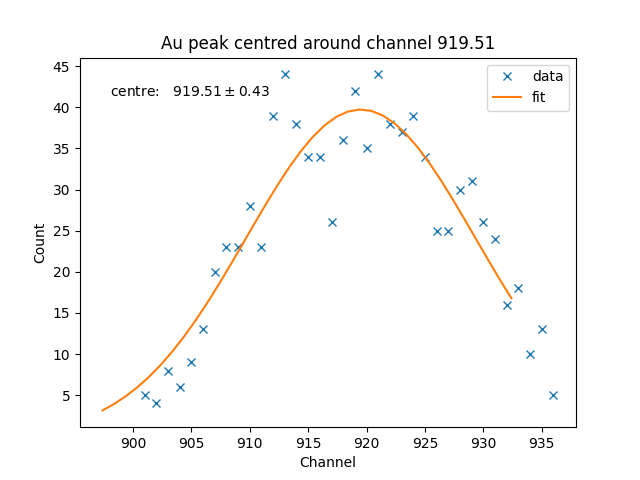
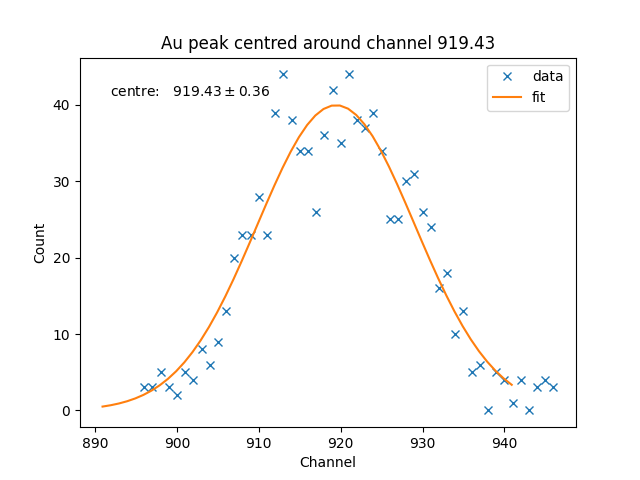
optimize data range inclusion & guesses for fits

diff --git a/src/metals.py b/src/metals.py
@@ -15,7 +15,8 @@ from xrf import calib
 import calibration
 
 
-metal = ["au", "cu", "pb", "ag", "ag_HR", "cd", "ni", "se", "ti_HR"]
+# metal = ["au", "cu", "pb", "ag", "ag_HR", "cd", "ni", "se", "ti_HR"]
+metal = ["cu"]
 
 
 if __name__ == "__main__":
@@ -49,8 +50,8 @@ if __name__ == "__main__":
         au_peak2_fit, au_peak2_err = calib.fit_peak(
             SDD_channels,
             au_counts,
-            901,
-            937,
+            901-5,
+            937+10,
             [34, 919, 7.4],
             "Au",
             save_fig=True,
@@ -62,9 +63,9 @@ if __name__ == "__main__":
         au_peak3_fit, au_peak3_err = calib.fit_peak(
             SDD_channels,
             au_counts,
-            1052,
-            1092,
-            [5, 1069, 0.7],
+            1011,
+            1116,
+            [5, 1069, 15],
             "Au",
             save_fig=True,
             path_save=fig_path / "20220330_au_peak3_fit.png",
@@ -132,7 +133,7 @@ if __name__ == "__main__":
             SDD_channels,
             cu_counts,
             696,
-            724,
+            724+7,
             [17, 711, 3],
             "Cu",
             save_fig=True,
@@ -187,9 +188,9 @@ if __name__ == "__main__":
         pb_peak1_fit, pb_peak1_err = calib.fit_peak(
             SDD_channels,
             pb_counts,
-            726,
-            745,
-            [5, 734, 2],
+            709,
+            755,
+            [5, 734, 5],
             "Pb",
             save_fig=True,
             path_save=fig_path / "20220330_pb_peak1_fit.png",
@@ -214,8 +215,8 @@ if __name__ == "__main__":
             SDD_channels,
             pb_counts,
             990,
-            1019,
-            [25, 1007, 2.3],
+            1054,
+            [25, 1007, 8],
             "Pb",
             save_fig=True,
             path_save=fig_path / "20220330_pb_peak3_fit.png",
@@ -269,9 +270,9 @@ if __name__ == "__main__":
         ag_peak1_fit, ag_peak1_err = calib.fit_peak(
             SDD_channels,
             ag_counts,
-            235,
-            264,
-            [3, 247, 10],
+            216,
+            283,
+            [5, 247, 14],
             "Ag",
             save_fig=True,
             path_save=fig_path / "20220331_ag_peak1_fit.png",
@@ -283,8 +284,8 @@ if __name__ == "__main__":
             SDD_channels,
             ag_counts,
             798,
-            1205,
-            [11, 1051, 200],
+            1190,
+            [11, 1110, 70],
             "Ag",
             save_fig=True,
             path_save=fig_path / "20220331_ag_peak2_fit.png",
@@ -338,8 +339,8 @@ if __name__ == "__main__":
         ag_HR_peak1_fit, ag_HR_peak1_err = calib.fit_peak(
             SDD_channels,
             ag_HR_counts,
-            116,
-            138,
+            116-7,
+            138+15,
             [9, 125, 9],
             "Ag",
             save_fig=True,
@@ -407,8 +408,8 @@ if __name__ == "__main__":
         cd_peak1_fit, cd_peak1_err = calib.fit_peak(
             SDD_channels,
             cd_counts,
-            245,
-            278,
+            217,
+            330,
             [7, 260, 18],
             "Cd",
             save_fig=True,
@@ -420,8 +421,8 @@ if __name__ == "__main__":
         cd_peak2_fit, cd_peak2_err = calib.fit_peak(
             SDD_channels,
             cd_counts,
-            683,
-            700,
+            675,
+            709,
             [11, 694, 10],
             "Cd",
             save_fig=True,
@@ -627,8 +628,8 @@ if __name__ == "__main__":
         ti_HR_peak1_fit, ti_HR_peak1_err = calib.fit_peak(
             SDD_channels,
             ti_HR_counts,
-            175,
-            189,
+            175-3,
+            189+3,
             [110, 181, 2.2],
             "Ti",
             save_fig=True,
@@ -640,8 +641,8 @@ if __name__ == "__main__":
         ti_HR_peak2_fit, ti_HR_peak2_err = calib.fit_peak(
             SDD_channels,
             ti_HR_counts,
-            193,
-            205,
+            193-4,
+            205+4,
             [17, 198, 1.7],
             "Ti",
             save_fig=True,
@@ -653,7 +654,7 @@ if __name__ == "__main__":
         ti_HR_peak3_fit, ti_HR_peak3_err = calib.fit_peak(
             SDD_channels,
             ti_HR_counts,
-            412,
+            412-15,
             602,
             [2, 536, 50],
             "Ti",
